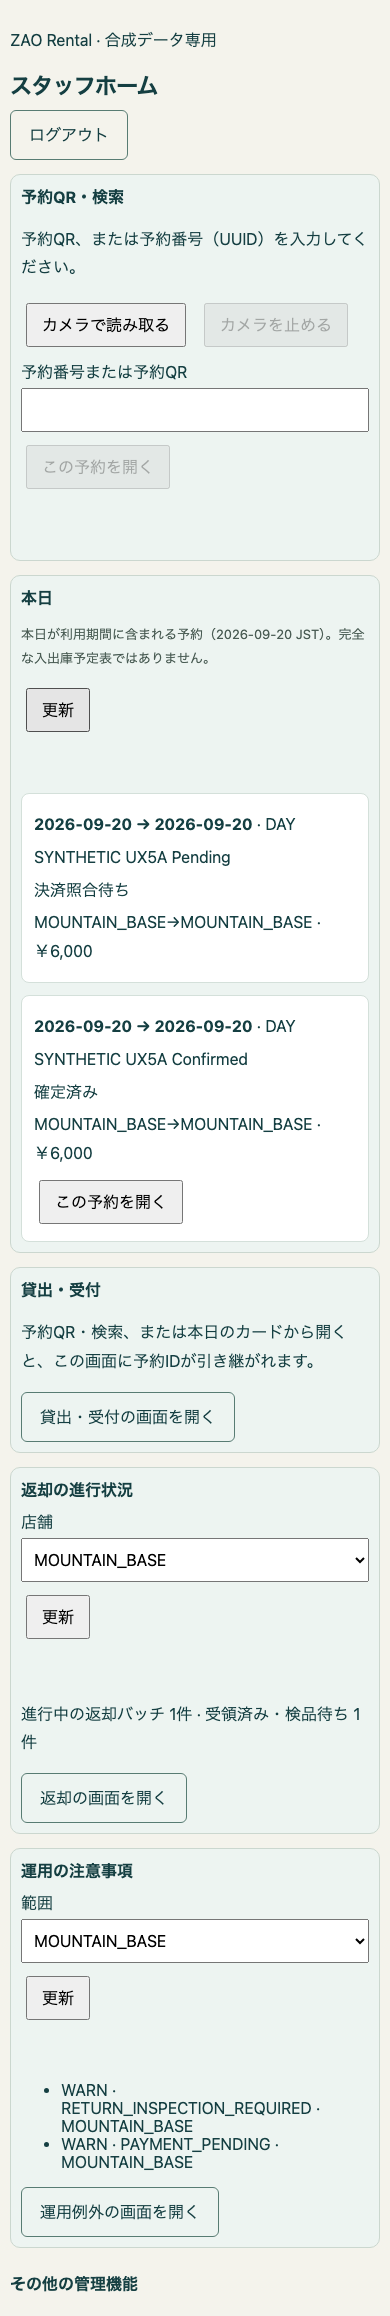
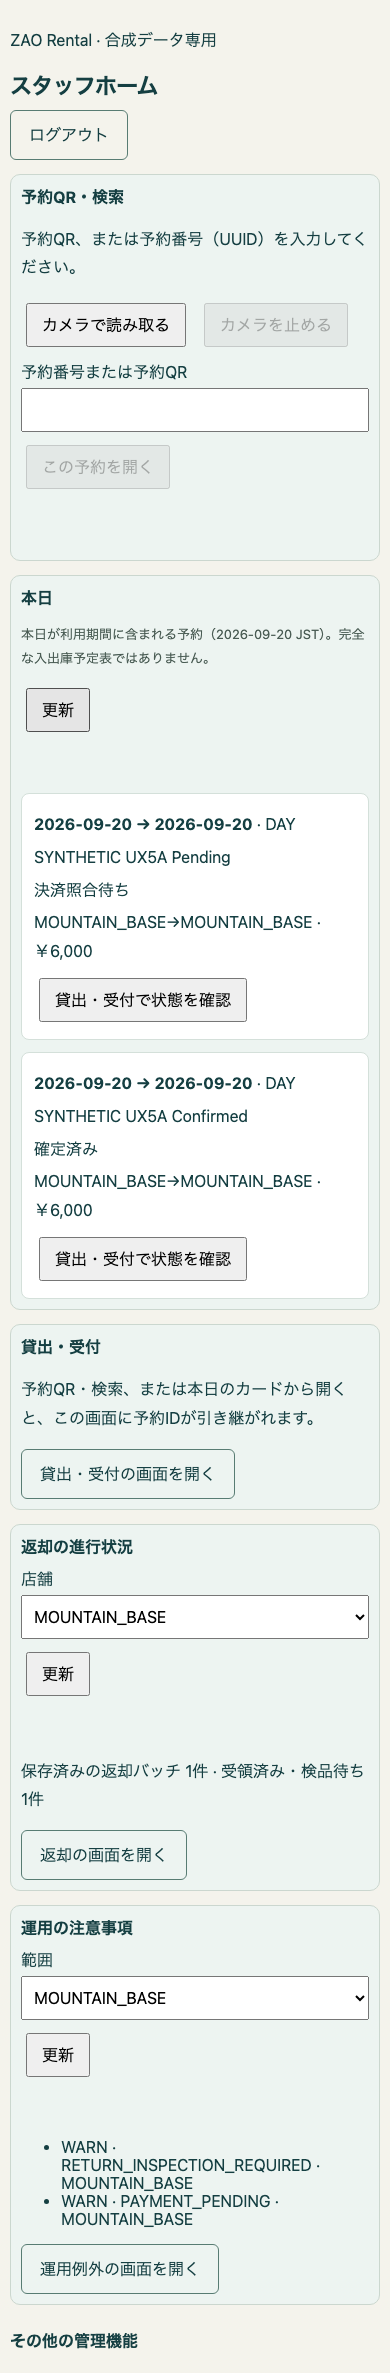
fix(staff-ui): correction batch for TD REQUEST_CHANGES on UX-5A (UX5R-01/02/03)
Addresses PR #26 comments 5747586777 (REQUEST_CHANGES) and 5747593599
(clarifying the prior READY report at d0923a6 was not a valid
resubmission, since it referenced the same HEAD the review covered):

- UX5R-01 (HIGH): remove the client-side PICKUP_ELIGIBLE booking-state
  allowlist. Reservation QR/search and every Today card's action are
  now gated purely by the RENTAL_CHECKOUT capability; the action label
  is neutral ("check status at pickup/reception") and the real
  eligibility stays with /api/custody/booking/:id.
- UX5R-02 (MEDIUM): stop calling every saved return batch "in
  progress" (GET /api/custody/returns has no such status). Relabel as
  a factual saved-batch count; keep the endpoint-backed
  received/inspection-pending count unchanged.
- UX5R-03 (MEDIUM): gate each secondary Ledger/Admin link on the same
  permission its destination route already requires (INVENTORY_VIEW,
  TRANSFER_VIEW, QUOTE_VIEW, HOLD_VIEW, BOOKING_VIEW), instead of
  showing nearly all links to every authorized user.

Regression coverage added for a narrow (BOOKING_VIEW-only, with
INVENTORY_VIEW explicitly revoked) account: no pickup/search action
anywhere, and only the two permission-appropriate secondary links.
Also proves the pickup action now appears on a still-PAYMENT_PENDING
booking's card, showing capability (not state) drives it.

No pricing/recommendation/inventory/HOLD/payment/auth/permission/
schema/Production changes; no UX-5B manifest API.

diff --git a/tests/staff/home-ui.ts b/tests/staff/home-ui.ts
@@ -22,8 +22,11 @@ try{
  const now=new Date();
  const root=await bootstrapDevelopmentAdmin(db.pool,{email:'ux5a-root@example.invalid',displayName:'SYNTHETIC Admin',password}),admin=(await loadStaff(db.pool,root))!;
  const base={active:true,role:'ADMIN' as const,password};
- const full=(await writeAccount(roles.authPool,admin,undefined,{...base,email:'ux5a-full@example.invalid',displayName:'SYNTHETIC Full Staff',scope:'ALL',storeIds:[],permissions:{HOLD_VIEW:true,HOLD_EDIT:true,QUOTE_VIEW:true,QUOTE_CREATE:true,PRICE_EDIT:true,BOOKING_VIEW:true,BOOKING_CREATE:true,RENTAL_CHECKOUT:true,RENTAL_RETURN:true,OPERATIONS_VIEW:true,OPERATIONS_ACKNOWLEDGE:true}})).id!;
- await writeAccount(roles.authPool,admin,undefined,{...base,email:'ux5a-narrow@example.invalid',displayName:'SYNTHETIC Narrow Staff',role:'VIEWER',scope:'ASSIGNED',storeIds:['MOUNTAIN_BASE'],permissions:{BOOKING_VIEW:true}});
+ const full=(await writeAccount(roles.authPool,admin,undefined,{...base,email:'ux5a-full@example.invalid',displayName:'SYNTHETIC Full Staff',scope:'ALL',storeIds:[],permissions:{HOLD_VIEW:true,HOLD_EDIT:true,QUOTE_VIEW:true,QUOTE_CREATE:true,PRICE_EDIT:true,BOOKING_VIEW:true,BOOKING_CREATE:true,RENTAL_CHECKOUT:true,RENTAL_RETURN:true,OPERATIONS_VIEW:true,OPERATIONS_ACKNOWLEDGE:true,INVENTORY_VIEW:true,TRANSFER_VIEW:true}})).id!;
+ // VIEWER carries a baseline INVENTORY_VIEW grant for every staff member (staff_role_permissions);
+ // explicitly revoke it here so this account is genuinely narrow (BOOKING_VIEW only), the same
+ // way an operator would configure a booking-only role in the real staff-management screen.
+ await writeAccount(roles.authPool,admin,undefined,{...base,email:'ux5a-narrow@example.invalid',displayName:'SYNTHETIC Narrow Staff',role:'VIEWER',scope:'ASSIGNED',storeIds:['MOUNTAIN_BASE'],permissions:{BOOKING_VIEW:true,INVENTORY_VIEW:false}});
  for(let i=0;i<150;i++){try{if((await fetch(origin+'/api/health')).ok)break;}catch{}if(i===149)throw Error('LOCAL_START_TIMEOUT');await new Promise(r=>setTimeout(r,100));}
  async function context(){const c=await browser.newContext({baseURL:origin,viewport:{width:390,height:844}});c.setDefaultTimeout(15000);return c;}
  async function login(c:BrowserContext,email:string){const p=await c.newPage();await p.goto('/staff/login');await p.getByLabel('メールアドレス',{exact:true}).fill(email);await p.getByLabel('パスワード',{exact:true}).fill(password);await p.getByRole('button',{name:'ログイン',exact:true}).click();await p.waitForURL('**/staff/ledger');return p;}
@@ -43,23 +46,37 @@ try{
  const confirmedId=await makeBooking('COMPLETED',variants.ski,'SYNTHETIC UX5A Confirmed');await makeBooking('PENDING',variants.skiAlt,'SYNTHETIC UX5A Pending');
  assert.equal((await db.pool.query('SELECT state FROM rental_bookings WHERE id=$1',[confirmedId])).rows[0].state,'CONFIRMED_DEV');
 
- await check('operational Staff Home replaces the one-link page; narrow permission hides checkout/return/exceptions but keeps Today',async()=>{
+ await check('operational Staff Home replaces the one-link page; narrow (BOOKING_VIEW-only) permission keeps Today read-only and hides every capability-gated section/link',async()=>{
   await page.goto('/staff');await expect(page.getByRole('heading',{name:'スタッフホーム'})).toBeVisible();
   await expect(page.getByRole('region',{name:'予約QR・検索'})).toBeVisible();
   await expect(page.getByRole('region',{name:'本日の予約'})).toBeVisible();
   await expect(page.getByRole('region',{name:'貸出・受付'})).toBeVisible();
   await expect(page.getByRole('region',{name:'返却の進行状況'})).toBeVisible();
   await expect(page.getByRole('region',{name:'運用の注意事項'})).toBeVisible();
-  await narrowPage.goto('/staff');await expect(narrowPage.getByRole('region',{name:'本日の予約'})).toBeVisible();
-  await expect(narrowPage.getByRole('region',{name:'予約QR・検索'})).toBeVisible();
-  for(const label of ['貸出・受付','返却の進行状況','運用の注意事項'])await expect(narrowPage.getByRole('region',{name:label})).toHaveCount(0);
+  await page.getByText('その他の管理機能').click();
+  for(const name of ['道具の台帳','棚卸・CSV投入','店舗間移動','見積','期間在庫・HOLD','サイズ推薦','ウェアの数量貸出・返却'])await expect(page.getByRole('link',{name})).toBeVisible();
+  await narrowPage.goto('/staff');
+  await expect(narrowPage.getByRole('region',{name:'本日の予約'})).toBeVisible();
+  // UX5R-01: a BOOKING_VIEW-only account cannot actually use pickup, so the search/QR
+  // entry point and every Today card's action must not be offered to it at all.
+  for(const label of ['予約QR・検索','貸出・受付','返却の進行状況','運用の注意事項'])await expect(narrowPage.getByRole('region',{name:label})).toHaveCount(0);
+  await expect(narrowPage.locator('.staff-card',{hasText:'SYNTHETIC UX5A Confirmed'}).getByRole('button')).toHaveCount(0);
+  // UX5R-03: secondary links must match the destination route's own permission gate, not
+  // "every authorized user".
+  await narrowPage.getByText('その他の管理機能').click();
+  for(const name of ['道具の台帳','棚卸・CSV投入','店舗間移動','見積','期間在庫・HOLD','サイズ推薦','ウェアの数量貸出・返却','スタッフ管理'])await expect(narrowPage.getByRole('link',{name})).toHaveCount(0);
+  for(const name of ['変更・返金依頼','パスワード変更'])await expect(narrowPage.getByRole('link',{name})).toBeVisible();
  });
 
- await check('Today booking card shows the real confirmed booking and opens it preselected into the pickup workflow',async()=>{
+ await check('Today booking card action is gated by RENTAL_CHECKOUT, not by the booking state (UX5R-01), and opens the real booking preselected into the pickup workflow',async()=>{
   await page.goto('/staff');
-  const card=page.locator('.staff-card',{hasText:'SYNTHETIC UX5A Confirmed'});await expect(card).toBeVisible();
-  await expect(card).toContainText('確定済み');
-  await card.getByRole('button',{name:'この予約を開く'}).click();
+  const confirmedCard=page.locator('.staff-card',{hasText:'SYNTHETIC UX5A Confirmed'});await expect(confirmedCard).toBeVisible();
+  await expect(confirmedCard).toContainText('確定済み');
+  // The action is offered for a still-PAYMENT_PENDING booking too: the capability check
+  // controls the action, never a client-side allowlist of booking states.
+  const pendingCard=page.locator('.staff-card',{hasText:'SYNTHETIC UX5A Pending'});await expect(pendingCard).toContainText('決済照合待ち');
+  await expect(pendingCard.getByRole('button',{name:'貸出・受付で状態を確認'})).toBeVisible();
+  await confirmedCard.getByRole('button',{name:'貸出・受付で状態を確認'}).click();
   await page.waitForURL(new RegExp('/staff/rentals\\?booking='+confirmedId));
   await expect(page.getByRole('region',{name:'貸出用品'})).toContainText(confirmedId);
  });
@@ -84,7 +101,7 @@ try{
   const batch=await created.json();
   const scanned=await page.request.post('/api/custody/scan',{headers:{origin},data:{requestKey:randomUUID(),input:{batchId:batch.id,expectedVersion:batch.version,assetId,poleLoanId:null}}});assert.equal(scanned.status(),200);
   await page.goto('/staff');await page.getByRole('button',{name:'更新',exact:true}).nth(1).click();
-  await expect(page.getByRole('region',{name:'返却の進行状況'})).toContainText('進行中の返却バッチ 1件');
+  await expect(page.getByRole('region',{name:'返却の進行状況'})).toContainText('保存済みの返却バッチ 1件');
   await expect(page.getByRole('region',{name:'返却の進行状況'})).toContainText('検品待ち 0件');
   const confirmed=await page.request.post('/api/custody/confirm',{headers:{origin},data:{requestKey:randomUUID(),input:{batchId:batch.id,expectedVersion:(await scanned.json()).version}}});assert.equal(confirmed.status(),200);
   await page.reload();await page.getByRole('button',{name:'更新',exact:true}).nth(1).click();

diff --git a/apps/web/src/components/StaffHome.tsx b/apps/web/src/components/StaffHome.tsx
@@ -12,11 +12,11 @@ type BookingRow={id:string;state:string;version:number;period:{startDate:string;
 type Returns={batches:{id:string}[];received:{loan_item_id:string;family:string;requirement_key:string;version:number;inspection_id:string|null}[]};
 type SafeException={id:string;eventType:string;correlationId:string;bookingId:string|null;assetId:string|null;store:string;severity:string;status:string;occurredAt:string;resolvedAt:string|null};
 const STATE_LABEL:Record<string,string>={DRAFT:'未確定（決済前）',PAYMENT_PENDING:'決済照合待ち',PAYMENT_REVIEW:'決済要確認',CONFIRMED_DEV:'確定済み',COMPLETED_DEV:'利用完了'};
-const PICKUP_ELIGIBLE=['CONFIRMED_DEV','COMPLETED_DEV'];
 function todayJst(){return new Intl.DateTimeFormat('en-CA',{timeZone:'Asia/Tokyo'}).format(new Date());}
 function money(raw:string|null){const n=Number(raw);return Number.isFinite(n)?new Intl.NumberFormat('ja-JP',{style:'currency',currency:'JPY',maximumFractionDigits:0}).format(n):'—';}
-export function StaffHome(p:{stamp:string;stores:StoreId[];canBookingView:boolean;canCheckout:boolean;canReturn:boolean;canOperationsView:boolean;canManageStaff:boolean}){return <StaffSessionBoundary stamp={p.stamp}><Home {...p}/></StaffSessionBoundary>;}
-function Home({stamp,stores,canBookingView,canCheckout,canReturn,canOperationsView,canManageStaff}:{stamp:string;stores:StoreId[];canBookingView:boolean;canCheckout:boolean;canReturn:boolean;canOperationsView:boolean;canManageStaff:boolean}){
+type Props={stamp:string;stores:StoreId[];canBookingView:boolean;canCheckout:boolean;canReturn:boolean;canOperationsView:boolean;canInventoryView:boolean;canTransferView:boolean;canQuoteView:boolean;canHoldView:boolean;canManageStaff:boolean};
+export function StaffHome(p:Props){return <StaffSessionBoundary stamp={p.stamp}><Home {...p}/></StaffSessionBoundary>;}
+function Home({stamp,stores,canBookingView,canCheckout,canReturn,canOperationsView,canInventoryView,canTransferView,canQuoteView,canHoldView,canManageStaff}:Props){
  const router=useRouter();
  const bookingsReq=useOperationsRequest(stamp,'staff-home-bookings'),returnsReq=useOperationsRequest(stamp,'staff-home-returns'),exceptionsReq=useOperationsRequest(stamp,'staff-home-exceptions');
  const [bookings,setBookings]=useState<BookingRow[]|null>(null),[returnStore,setReturnStore]=useState(stores[0]),[returns,setReturns]=useState<Returns|null>(null),[opsStore,setOpsStore]=useState(stores[0]),[exceptions,setExceptions]=useState<{exceptions:SafeException[]}|null>(null);
@@ -33,23 +33,23 @@ function Home({stamp,stores,canBookingView,canCheckout,canReturn,canOperationsVi
  const today=todayJst(),todays=(bookings??[]).filter(b=>b.period&&b.period.startDate<=today&&today<=b.period.endDate);
  const inspectionPending=(returns?.received??[]).filter(r=>!r.inspection_id).length;
  return <main className="holds staff-home"><header><p>ZAO Rental · 合成データ専用</p><h1>スタッフホーム</h1><nav><a href="/staff/logout">ログアウト</a></nav></header>
- {canBookingView&&<BookingSearchInput onBooking={openBooking}/>}
+ {canCheckout&&<BookingSearchInput onBooking={openBooking}/>}
  {canBookingView&&<section aria-label="本日の予約"><h2>本日</h2><p className="staff-secondary">本日が利用期間に含まれる予約（{today} JST）。完全な入出庫予定表ではありません。</p>
   <button disabled={bookingsReq.busy} onClick={()=>void bookingsReq.load<BookingRow[]>('/api/bookings',setBookings)}>更新</button>
   <p role="status">{bookingsReq.message}</p>
-  {bookings&&(todays.length?<div className="staff-card-grid">{todays.map(b=><article className="staff-card" key={b.id}><p><strong>{b.period!.startDate} → {b.period!.endDate}</strong> · {b.period!.slot}</p><p>{b.display_name??'（氏名未取得）'}</p><p>{STATE_LABEL[b.state]??b.state}</p><p>{b.pickup_store}→{b.return_store} · {money(b.total_jpy)}</p>{PICKUP_ELIGIBLE.includes(b.state)&&<button className="staff-card-primary" onClick={()=>openBooking(b.id)}>この予約を開く</button>}</article>)}</div>:<p>本日が利用期間に含まれる予約はありません。</p>)}
+  {bookings&&(todays.length?<div className="staff-card-grid">{todays.map(b=><article className="staff-card" key={b.id}><p><strong>{b.period!.startDate} → {b.period!.endDate}</strong> · {b.period!.slot}</p><p>{b.display_name??'（氏名未取得）'}</p><p>{STATE_LABEL[b.state]??b.state}</p><p>{b.pickup_store}→{b.return_store} · {money(b.total_jpy)}</p>{canCheckout&&<button className="staff-card-primary" onClick={()=>openBooking(b.id)}>貸出・受付で状態を確認</button>}</article>)}</div>:<p>本日が利用期間に含まれる予約はありません。</p>)}
  </section>}
  {canCheckout&&<section aria-label="貸出・受付"><h2>貸出・受付</h2><p>予約QR・検索、または本日のカードから開くと、この画面に予約IDが引き継がれます。</p><Link href="/staff/rentals">貸出・受付の画面を開く</Link></section>}
  {canReturn&&<section aria-label="返却の進行状況"><h2>返却の進行状況</h2><label>店舗<select aria-label="返却店舗" value={returnStore} onChange={e=>setReturnStore(e.target.value as StoreId)}>{stores.map(s=><option key={s} value={s}>{s}</option>)}</select></label>
   <button disabled={returnsReq.busy} onClick={()=>void returnsReq.load<Returns>('/api/custody/returns?store='+returnStore,setReturns)}>更新</button>
   <p role="status">{returnsReq.message}</p>
-  {returns&&<p>進行中の返却バッチ {returns.batches.length}件 · 受領済み・検品待ち {inspectionPending}件</p>}
+  {returns&&<p>保存済みの返却バッチ {returns.batches.length}件 · 受領済み・検品待ち {inspectionPending}件</p>}
   <Link href="/staff/rentals">返却の画面を開く</Link></section>}
  {canOperationsView&&<section aria-label="運用の注意事項"><h2>運用の注意事項</h2><label>範囲<select aria-label="運用の範囲" value={opsStore} onChange={e=>setOpsStore(e.target.value as StoreId)}>{stores.map(s=><option key={s} value={s}>{s}</option>)}</select></label>
   <button disabled={exceptionsReq.busy} onClick={()=>void exceptionsReq.load<{exceptions:SafeException[]}>('/api/operations/exceptions?store='+opsStore+'&ageHours=0&status=UNACKNOWLEDGED',setExceptions)}>更新</button>
   <p role="status">{exceptionsReq.message}</p>
   {exceptions&&(exceptions.exceptions.length?<ul>{exceptions.exceptions.slice(0,5).map(e=><li key={e.id}>{e.severity} · {e.eventType} · {e.store}</li>)}</ul>:<p>現在、未確認の例外はありません。</p>)}
   <Link href="/admin/ops">運用例外の画面を開く</Link></section>}
- <details className="staff-secondary-links"><summary>その他の管理機能</summary><nav><a href="/staff/ledger">道具の台帳</a><a href="/admin/inventory">棚卸・CSV投入</a><a href="/staff/amendments">変更・返金依頼</a><a href="/staff/transfers">店舗間移動</a><a href="/staff/quotes">見積</a><a href="/staff/holds">期間在庫・HOLD</a><a href="/staff/recommendations">サイズ推薦</a><a href="/staff/wear">ウェアの数量貸出・返却</a><a href="/staff/password">パスワード変更</a>{canManageStaff&&<a href="/staff/users">スタッフ管理</a>}</nav></details>
+ <details className="staff-secondary-links"><summary>その他の管理機能</summary><nav>{canInventoryView&&<a href="/staff/ledger">道具の台帳</a>}{canInventoryView&&<a href="/admin/inventory">棚卸・CSV投入</a>}{canBookingView&&<a href="/staff/amendments">変更・返金依頼</a>}{canTransferView&&<a href="/staff/transfers">店舗間移動</a>}{canQuoteView&&<a href="/staff/quotes">見積</a>}{canHoldView&&<a href="/staff/holds">期間在庫・HOLD</a>}{canHoldView&&canQuoteView&&<a href="/staff/recommendations">サイズ推薦</a>}{canInventoryView&&<a href="/staff/wear">ウェアの数量貸出・返却</a>}<a href="/staff/password">パスワード変更</a>{canManageStaff&&<a href="/staff/users">スタッフ管理</a>}</nav></details>
  </main>;
 }

diff --git a/apps/web/src/app/staff/page.tsx b/apps/web/src/app/staff/page.tsx
@@ -6,5 +6,5 @@ export const dynamic = 'force-dynamic';
 export default async function Page() {
   const s = await staffState(new Headers(await headers()));
   if (s.status !== 'authorized') return <main><h1>認証が必要です</h1><p>スタッフ機能は現在利用できません。</p><a href="/staff/login">スタッフログインへ</a></main>;
-  return <StaffHome key={publicStamp(s.stamp)} stamp={publicStamp(s.stamp)} stores={s.principal.storeIds} canBookingView={s.principal.permissions.includes('BOOKING_VIEW')} canCheckout={s.principal.permissions.includes('RENTAL_CHECKOUT')} canReturn={s.principal.permissions.includes('RENTAL_RETURN')} canOperationsView={s.principal.permissions.includes('OPERATIONS_VIEW')} canManageStaff={canManage(s.principal)} />;
+  return <StaffHome key={publicStamp(s.stamp)} stamp={publicStamp(s.stamp)} stores={s.principal.storeIds} canBookingView={s.principal.permissions.includes('BOOKING_VIEW')} canCheckout={s.principal.permissions.includes('RENTAL_CHECKOUT')} canReturn={s.principal.permissions.includes('RENTAL_RETURN')} canOperationsView={s.principal.permissions.includes('OPERATIONS_VIEW')} canInventoryView={s.principal.permissions.includes('INVENTORY_VIEW')} canTransferView={s.principal.permissions.includes('TRANSFER_VIEW')} canQuoteView={s.principal.permissions.includes('QUOTE_VIEW')} canHoldView={s.principal.permissions.includes('HOLD_VIEW')} canManageStaff={canManage(s.principal)} />;
 }
